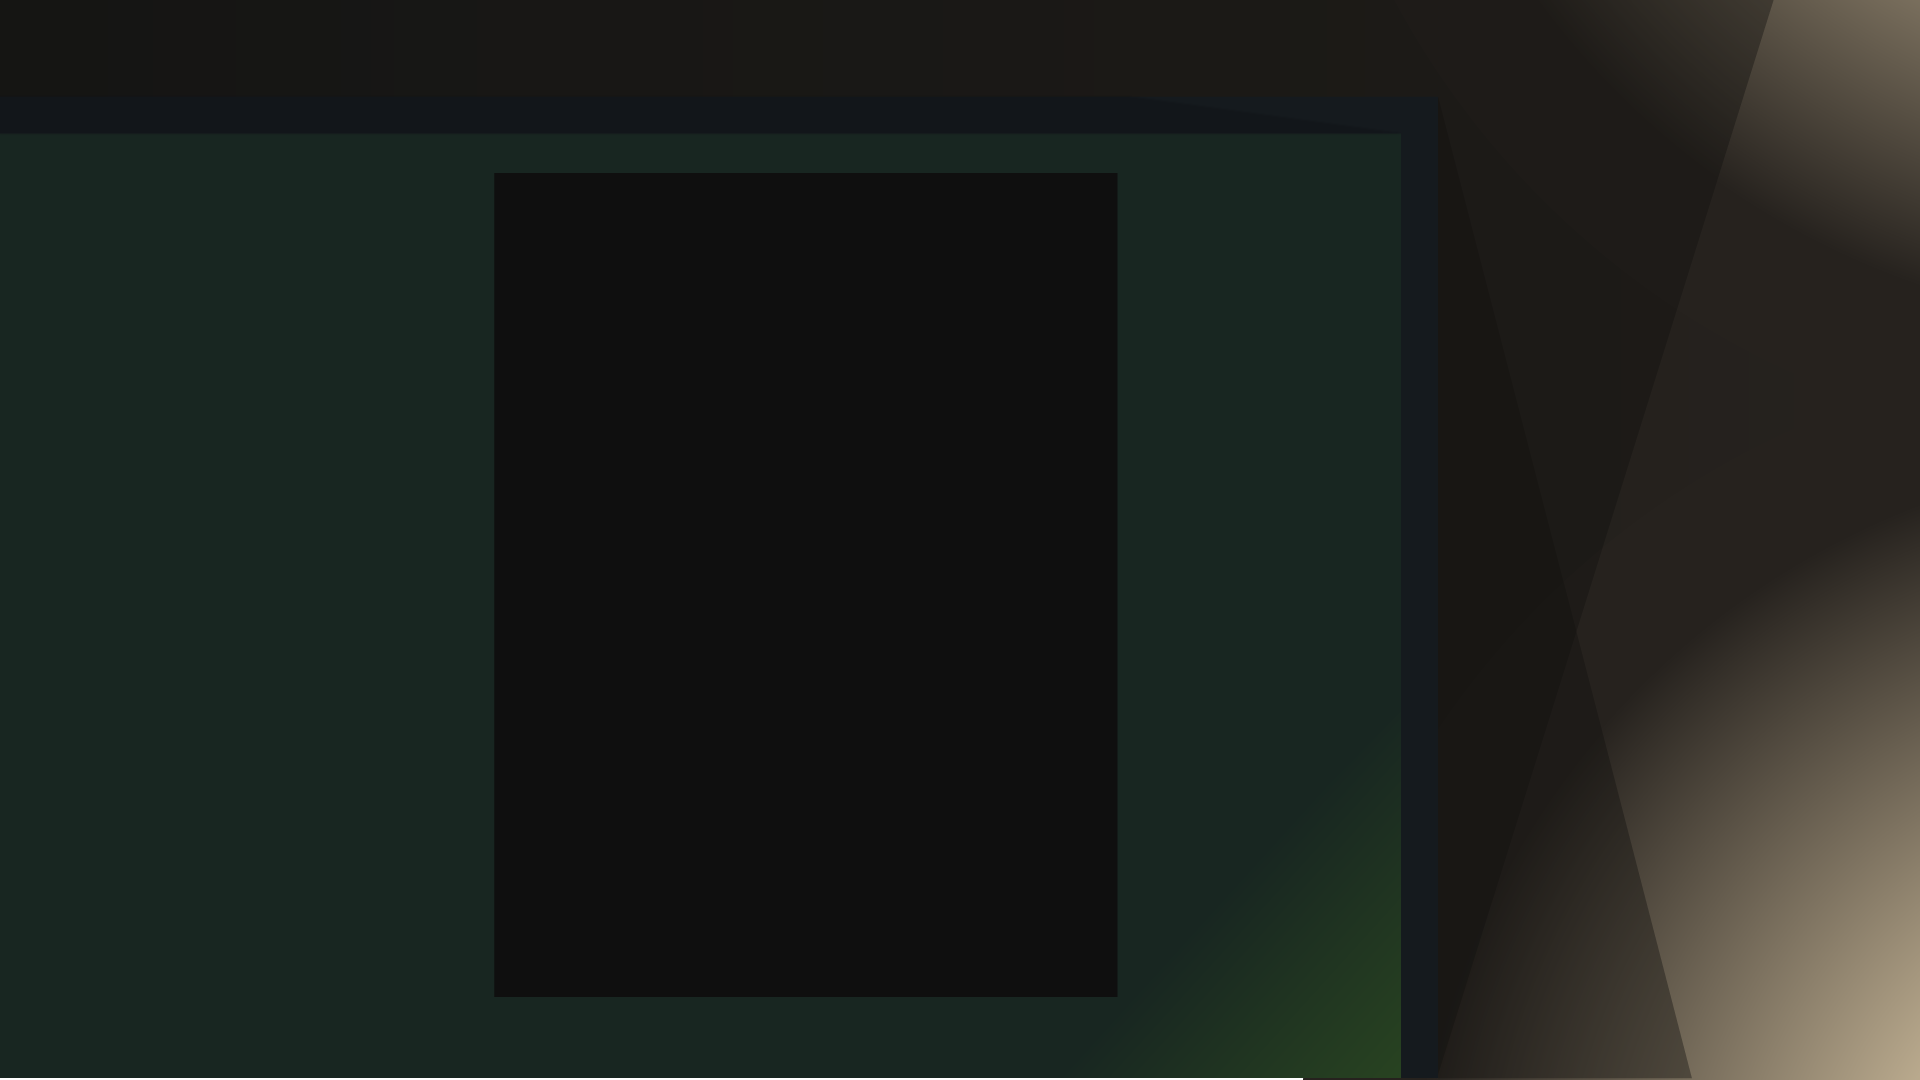
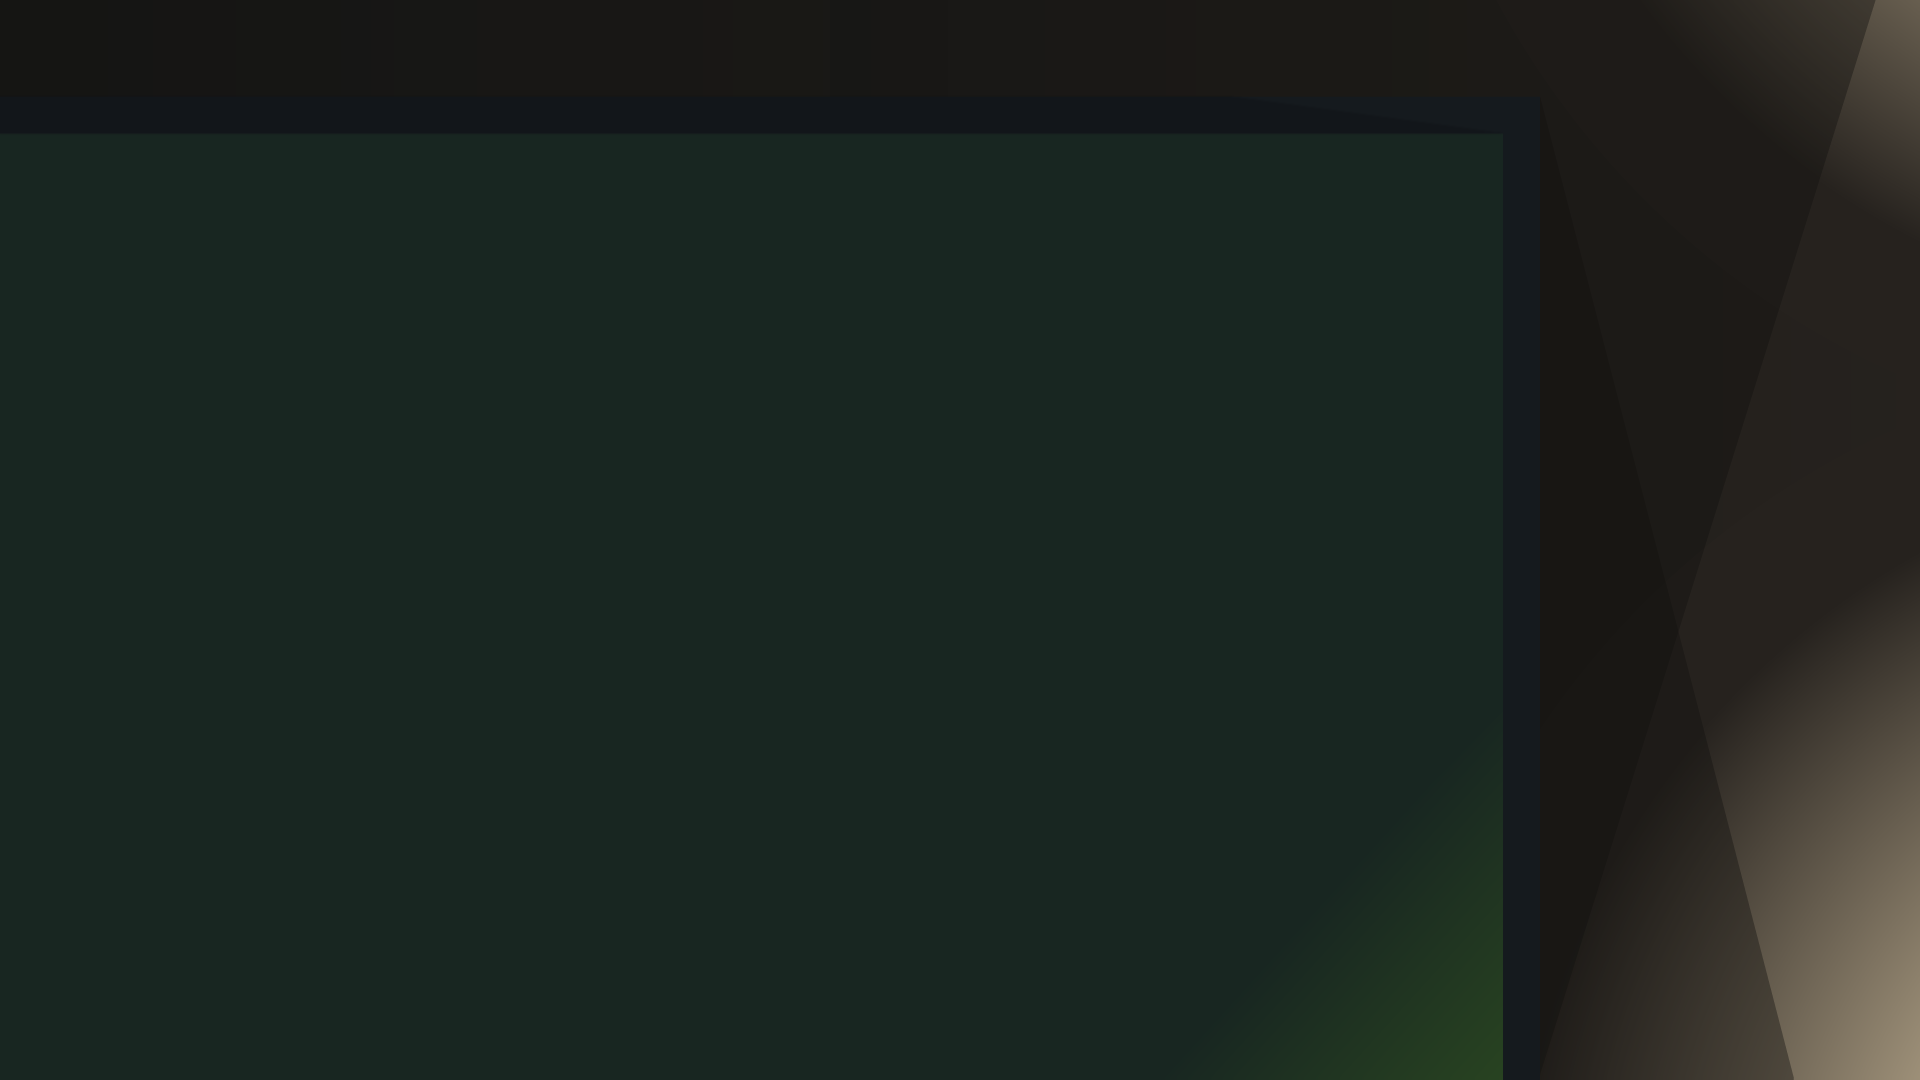
stat display cleanup & bigger layout

Changed region(s): [[0.8438, 0.6417, 1.0, 1.0], [0.7188, 0.7639, 0.8125, 1.0], [0.9062, 0.0, 1.0, 0.1833]]

diff --git a/TheAlbianTimes/Assets/Scripts/Layout/Pieces/PieceGenerator.cs b/TheAlbianTimes/Assets/Scripts/Layout/Pieces/PieceGenerator.cs
@@ -3,19 +3,23 @@ using Managers;
 using NoMonoBehavior;
 using System.Collections;
 using System.Collections.Generic;
+using TMPro;
 using UnityEngine;
 using UnityEngine.UI;
 
 public class PieceGenerator
 {
-    public NewsHeadlinePiece Generate(NewsType type, Transform newsHeadlinesPiecesContainer)
+    public NewsHeadlinePiece Generate(NewsData newsData, Transform newsHeadlinesPiecesContainer)
     {
+        NewsType type = newsData.type;
         PieceData pieceData = new PieceData((int)type, PieceData.pivots[(int)type]);
         Vector2[] pieceCoords = pieceData.ConvertToRelativeTileCoordinates();
         Vector2 pieceSize = pieceData.GetPieceSize();
         List<NewsHeadlineSubPiece> subPieces = new List<NewsHeadlineSubPiece>();
         GameObject op = FakeInstantiate(newsHeadlinesPiecesContainer);
         NewsHeadlinePiece newsHeadlinePiece = op.AddComponent<NewsHeadlinePiece>();
+
+        Color subPieceColor = Color.gray + new Color(Random.Range(0f, .2f), Random.Range(0f, .2f), Random.Range(0f, .2f));
 
         foreach (Vector2 v in pieceCoords)
         {
@@ -27,11 +31,24 @@ public class PieceGenerator
             subPiece.SetPositionFromCoordinates(pieceSize);
             subPiece.SetNewsHeadlinePiece(newsHeadlinePiece);
 
-            subPieceImage.color = Color.gray;
+            subPieceImage.color = subPieceColor;
 
             subPieces.Add(subPiece);
         }
         newsHeadlinePiece.SetSubPieces(subPieces.ToArray());
+
+        GameObject h = FakeInstantiate(subPieces[subPieces.Count - 1].transform);
+        TextMeshProUGUI headline = h.AddComponent<TextMeshProUGUI>();
+        
+        headline.text = newsData.biases[0].headline;
+        headline.color = Color.black;
+        headline.fontSize = 7f;
+        headline.rectTransform.anchorMax = Vector2.one;
+        headline.rectTransform.anchorMin = Vector2.zero;
+        headline.rectTransform.pivot = new Vector2(.5f, .5f);
+        headline.rectTransform.anchoredPosition = Vector2.zero;
+        headline.rectTransform.sizeDelta = Vector2.zero;
+
         return newsHeadlinePiece;
     }
 

diff --git a/TheAlbianTimes/Assets/Scripts/Countries/Country.cs b/TheAlbianTimes/Assets/Scripts/Countries/Country.cs
@@ -128,6 +128,18 @@ public class Country : MonoBehaviour
         }
     }
 
+    public string DisplayValues()
+    {
+        string d = "";
+        d += "<b>" + GetName() + ":</b>\n";
+        foreach (KeyValuePair<string, float> value in data.values)
+        {
+            d += value.Key + ": " + value.Value + "  ";
+        }
+        Debug.Log(d);
+        return d;
+    }
+
     #region Getters/Setters
     public void ModifyValue(string key, float value)
     {
@@ -174,16 +186,6 @@ public class Country : MonoBehaviour
     {
         return names[(int)GetId()];
     }
-    public string DebugValues()
-    {
-        string d = "";
-        d += GetName() + ":";
-        foreach (KeyValuePair<string, float> value in data.values)
-        {
-            d +=" // " + value.Key + ": " + value.Value;
-        }
-        Debug.Log(d);
-        return d;
-    }
+
     #endregion
 }

diff --git a/TheAlbianTimes/Assets/Scripts/Editorial/EditorialNewsLoader.cs b/TheAlbianTimes/Assets/Scripts/Editorial/EditorialNewsLoader.cs
@@ -36,7 +36,7 @@ public class EditorialNewsLoader : MonoBehaviour
     {
         NewsData newsData = JsonUtility.FromJson<NewsData>(json);
         GameObject newsHeadlineGameObject = Instantiate(_newsHeadline, _newsFolder.transform);
-        GameObject newsHeadlinePieceGameObject = pieceGenerator.Generate(newsData.type, _newsHeadlinesPiecesContainer.transform).gameObject;
+        GameObject newsHeadlinePieceGameObject = pieceGenerator.Generate(newsData, _newsHeadlinesPiecesContainer.transform).gameObject;
 
         newsHeadlineGameObject.transform.localPosition = new Vector2(0, SPAWN_Y_COORDINATE);
         

diff --git a/TheAlbianTimes/Assets/Scripts/Stats/TESTDisplay.cs b/TheAlbianTimes/Assets/Scripts/Stats/TESTDisplay.cs
@@ -38,7 +38,7 @@ public class TESTDisplay : MonoBehaviour
         string ct = "";
         foreach (Country c in GameManager.Instance.gameState.countries)
         {
-            ct += c.DebugValues() + "\n";
+            ct += c.DisplayValues() + "\n";
         }
         countriesText.text = ct;
 

diff --git a/TheAlbianTimes/Assets/Scripts/Editorial/StatsDisplay.cs b/TheAlbianTimes/Assets/Scripts/Editorial/StatsDisplay.cs
@@ -13,7 +13,6 @@ public class StatsDisplay : MonoBehaviour
     TextMeshProUGUI moneyText;
     TextMeshProUGUI staffText;
     TextMeshProUGUI reputationText;
-    float a = 40;
     void Start()
     {
         moneyText = transform.Find("money").GetComponent<TextMeshProUGUI>();

diff --git a/TheAlbianTimes/Assets/Scripts/Layout/NewsHeadlineSubPiece.cs b/TheAlbianTimes/Assets/Scripts/Layout/NewsHeadlineSubPiece.cs
@@ -19,7 +19,7 @@ namespace Layout
         
         [SerializeField] private Vector2 _coordinates;
 
-        private float size = 61.66667f; //lmao
+        public static readonly float size = 49.286f; //lmao
 
         private Image _image;
 
